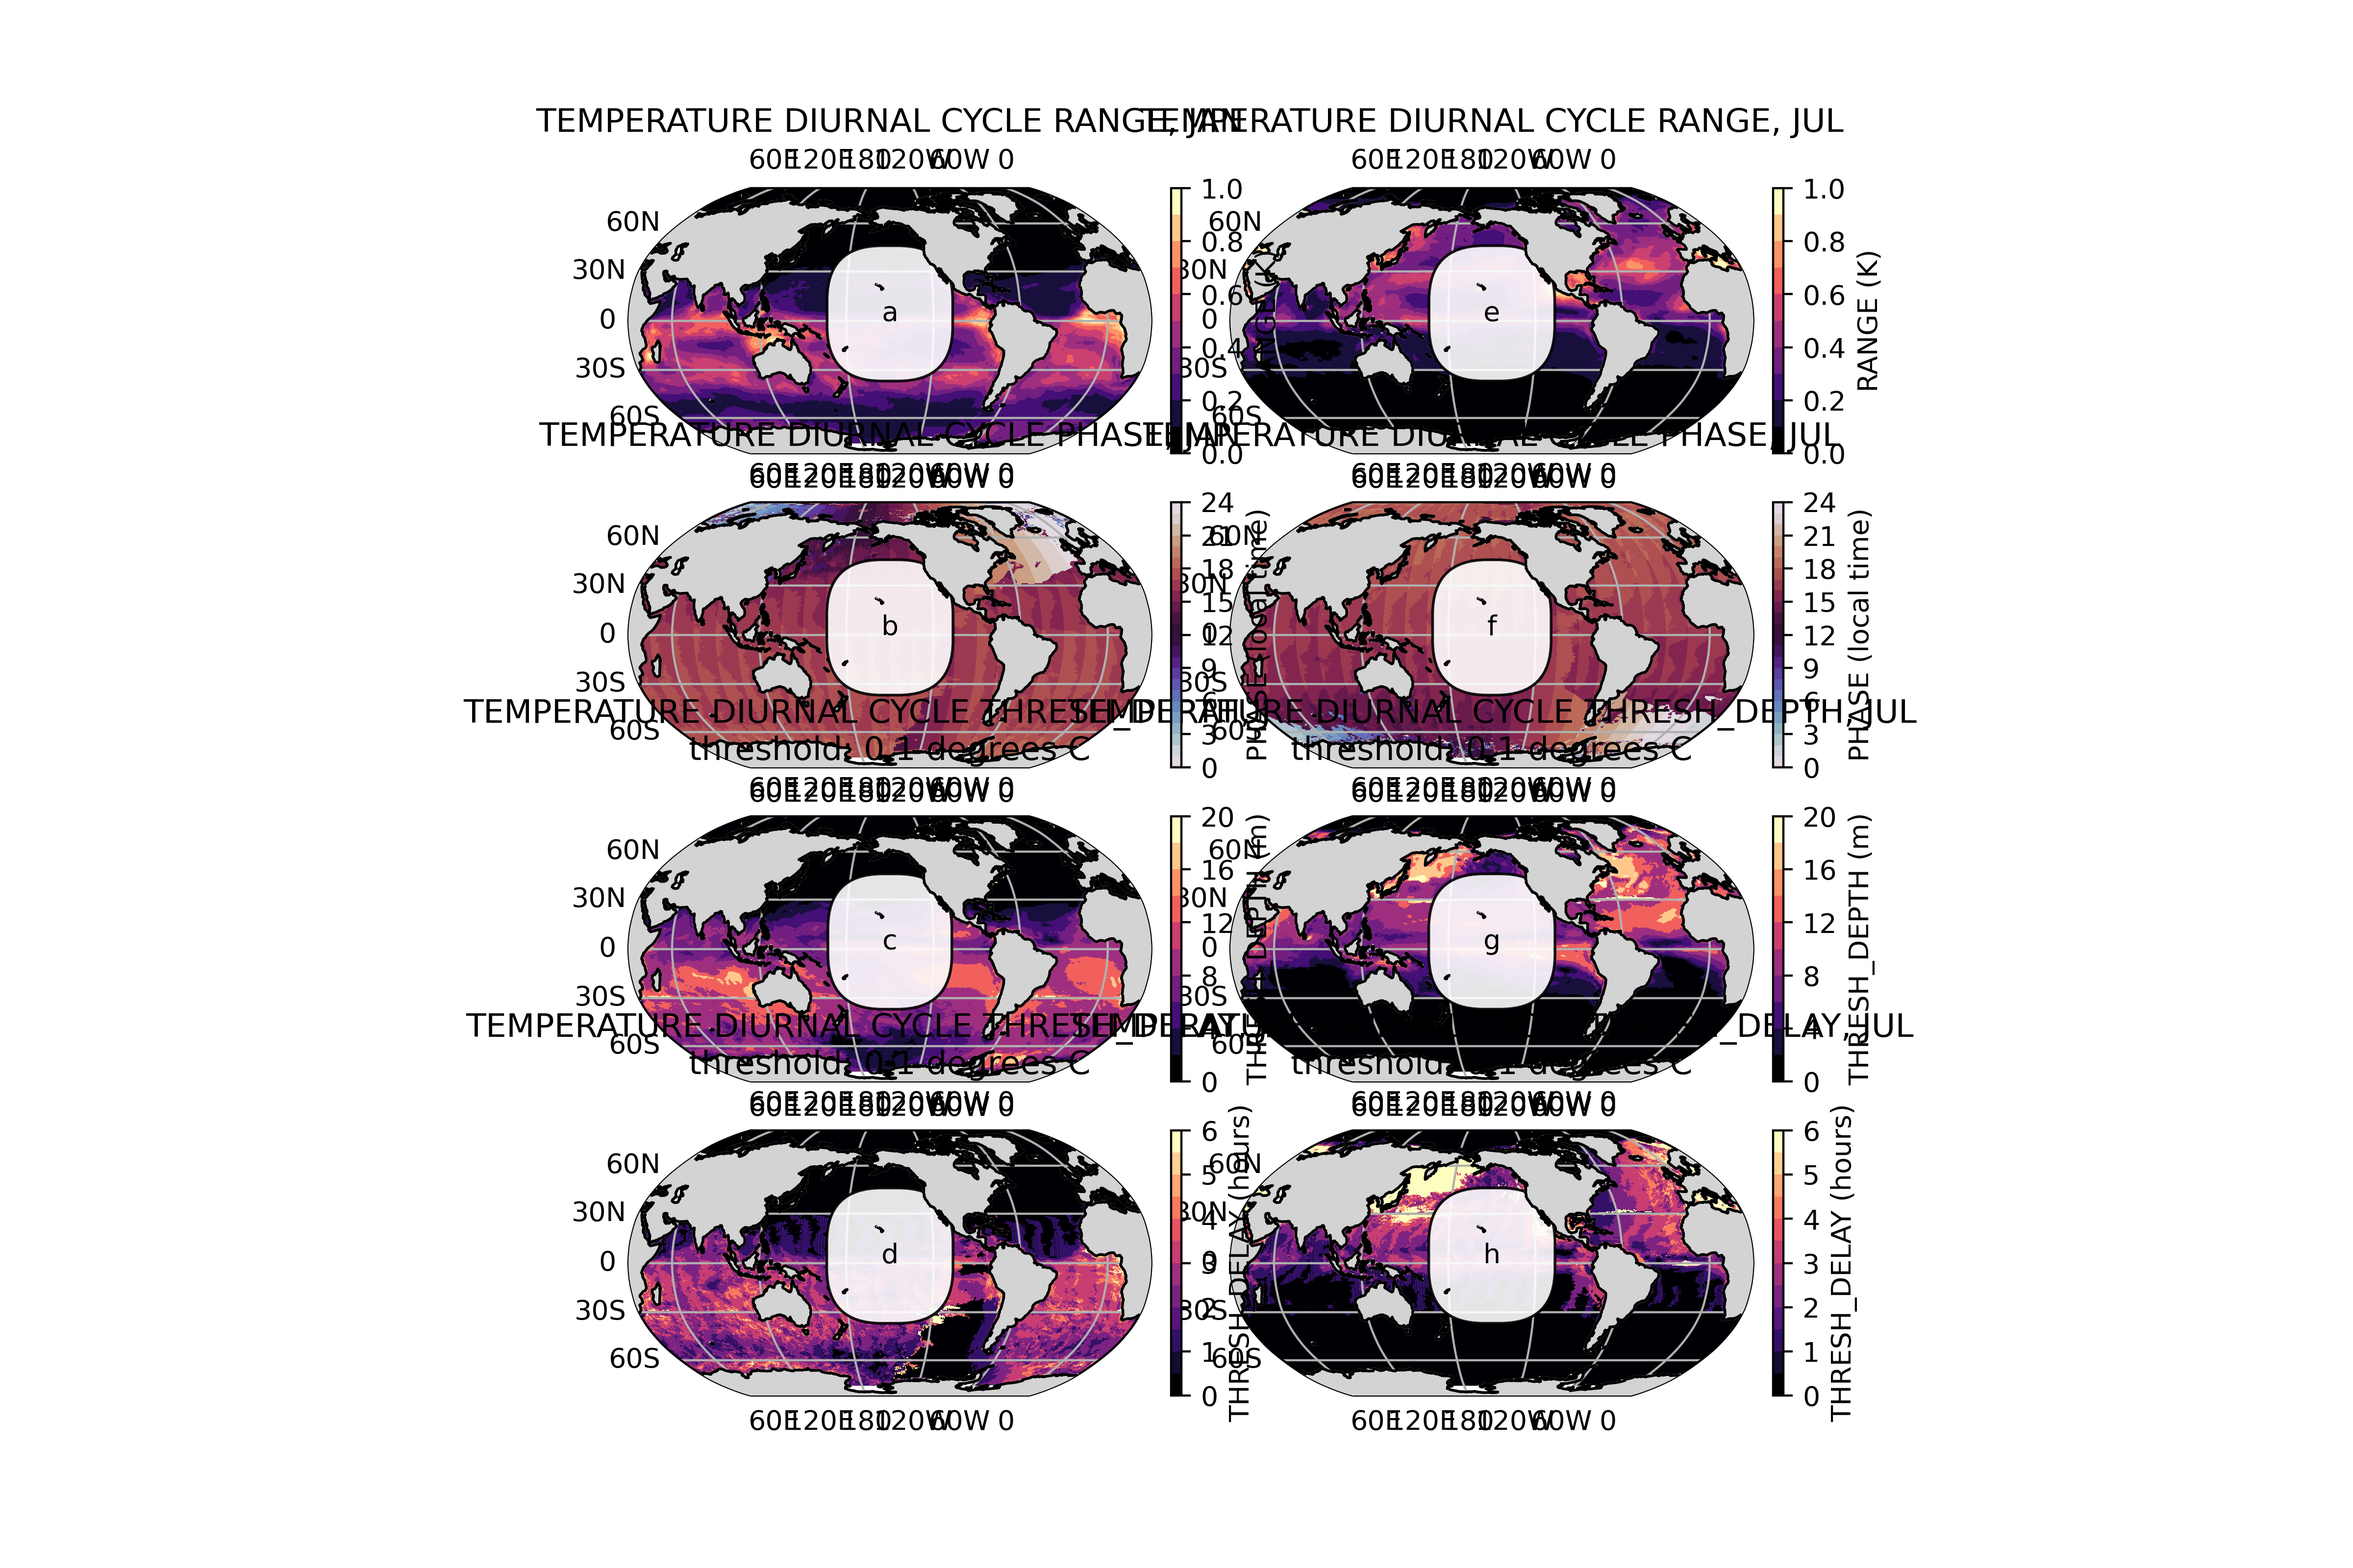
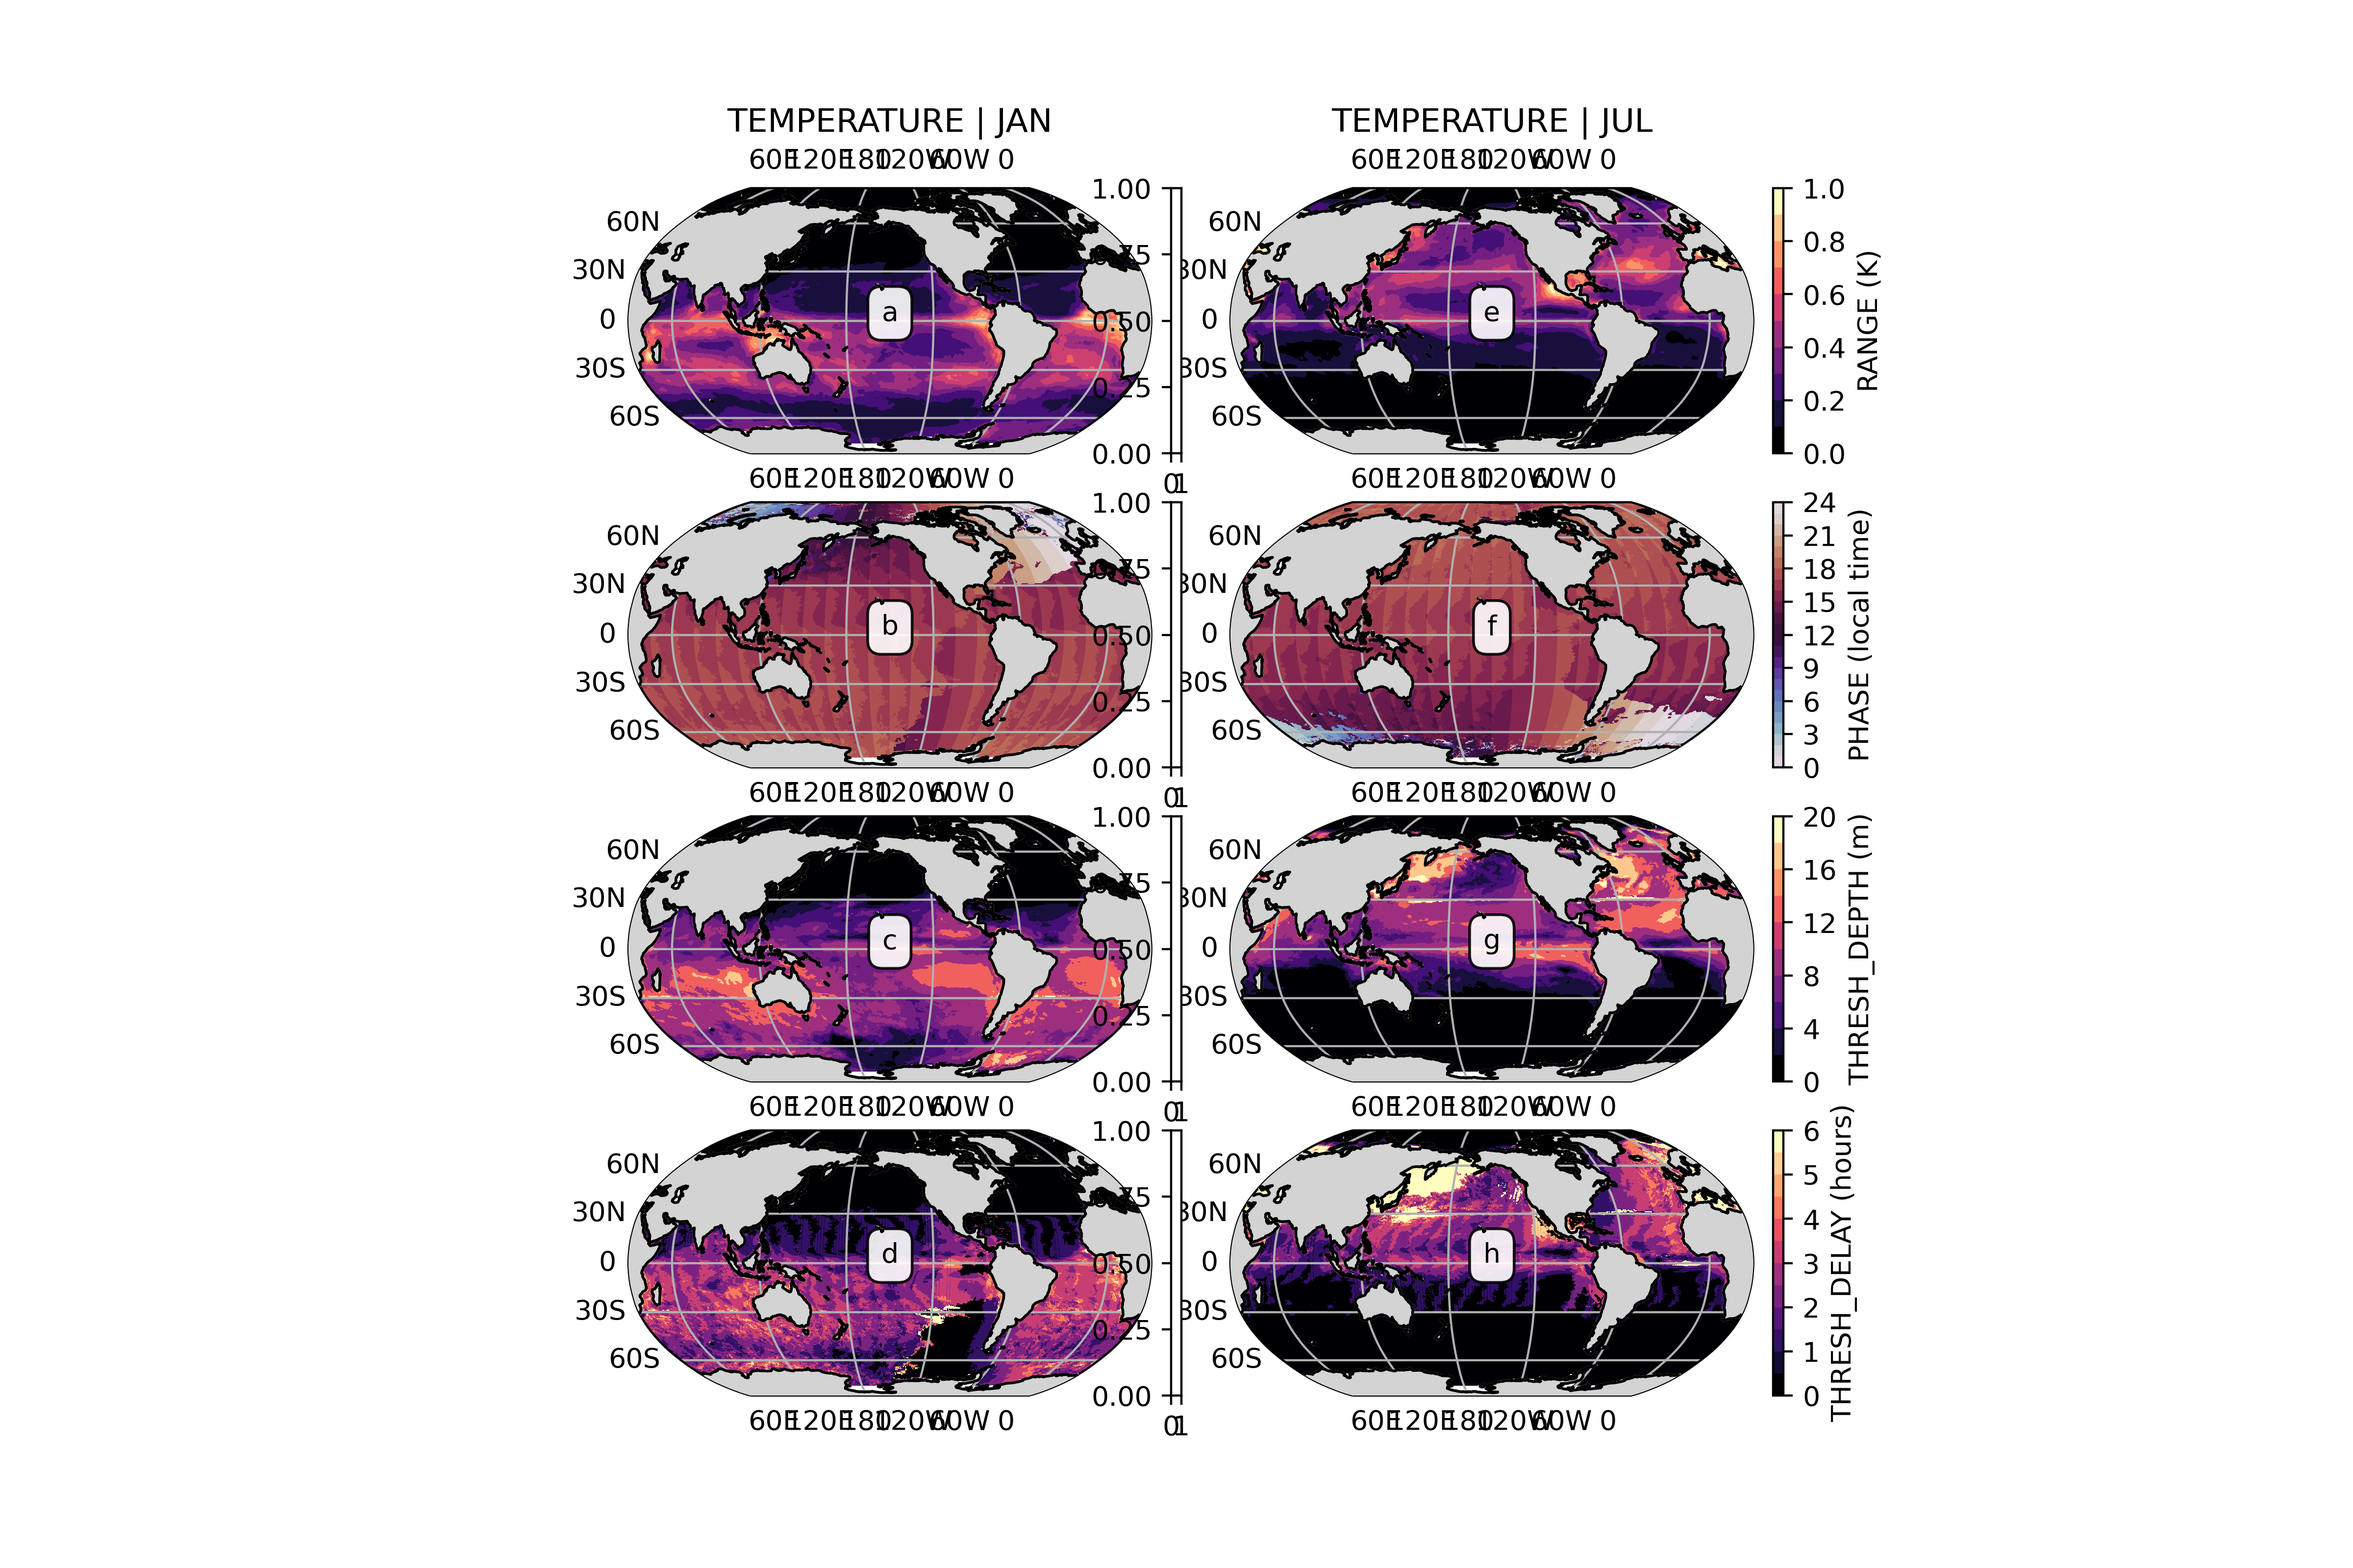
Tweaks 2col map.

diff --git a/diurnal_cycle/analysis/diurnal_cycle_2col_maps.py b/diurnal_cycle/analysis/diurnal_cycle_2col_maps.py
@@ -117,7 +117,12 @@ def main(plot_var, plot_month1, plot_month2):
                           xlocs=np.arange(-300, 151, 60),
                           ylocs=np.arange(-90, 91, 30),
                           linewidths=0.3)
-        gl.right_labels = True
+        if i in [0,4]:
+            gl.top_labels = True
+            gl.bottom_labels = True
+        else:
+            gl.top_labels = False
+            gl.bottom_labels = True
         gl.xformatter = LongitudeFormatter(zero_direction_label=False,
                                            degree_symbol='')
         gl.yformatter = LatitudeFormatter(degree_symbol='')
@@ -154,22 +159,23 @@ def main(plot_var, plot_month1, plot_month2):
                               cmap=cmap_b, norm=norm_b, shading='nearest')
     
         # Titles.
-        if ptype in ['THRESH_DEPTH', 'THRESH_DELAY']:
-            ax.set_title(plot_dets(plot_var, 'plotname') + ' DIURNAL CYCLE ' + ptype 
-                         + ', ' + mon +
-                         '\nthreshold: ' + ds[ptype].attrs['threshold'])
+        if ptype in ['RANGE']:
+            ax.set_title(plot_dets(plot_var, 'plotname') + ' | ' + mon)
         else:
-            ax.set_title(plot_dets(plot_var, 'plotname') + ' DIURNAL CYCLE ' + ptype
-                         + ', ' + mon)
+            pass
+
         # Colorbars.
-        cb = axgr.cbar_axes[i].colorbar(p)
-        cb.set_label(ptype +
-                     ' (' + plot_dets(plot_var, 'units', ptype) + ')')
+        if i < 4:
+            pass
+        else:
+            cb = axgr.cbar_axes[i].colorbar(p)
+            cb.set_label(ptype +
+                         ' (' + plot_dets(plot_var, 'units', ptype) + ')')
         
         # Add figure letters (a, b, c, etc.).
-        ax.text(120.0, -82.0, fig_letters[i],
+        ax.text(90.0, 50.0, fig_letters[i],
                 horizontalalignment='center',
-                bbox={'facecolor':'white', 'alpha':0.9, 'pad':2,
+                bbox={'facecolor':'white', 'alpha':0.9, 'pad':0.5,
                       'boxstyle':'round'})
     
     # Save file.
